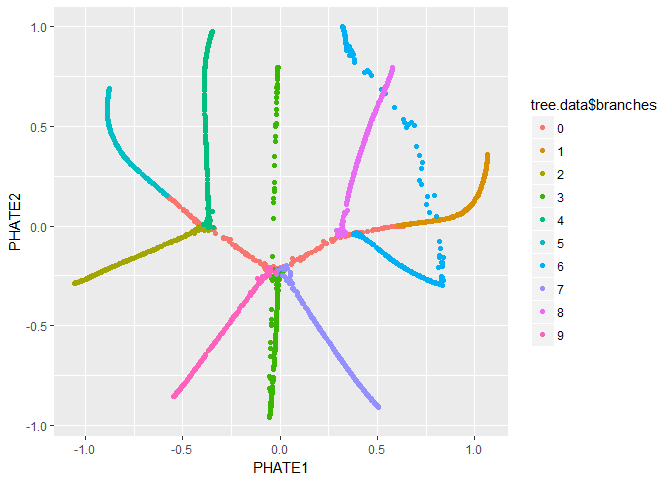
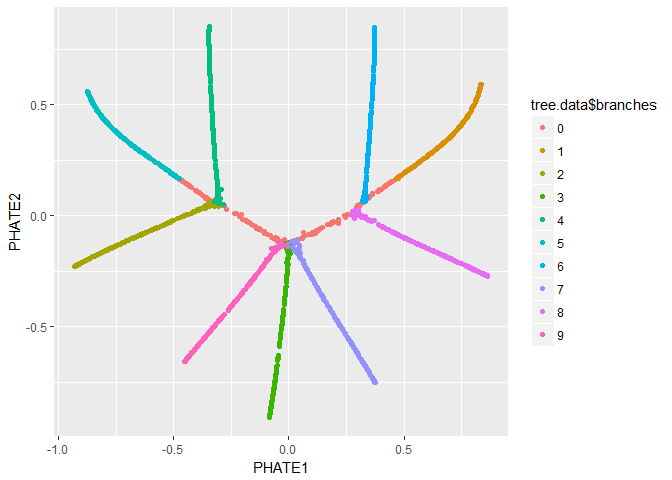
make CRAN checks pass

diff --git a/README.md b/README.md
@@ -1,37 +1,71 @@
+phater v0.2.5
+================
 
 <!-- README.md is generated from README.Rmd. Please edit that file -->
-phater
-======
 
-This R package provides an implementation of the [PHATE dimensionality reduction and visualization method](https://www.biorxiv.org/content/early/2017/12/01/120378).
+This R package provides an implementation of the [PHATE dimensionality
+reduction and visualization
+method](https://www.biorxiv.org/content/early/2017/12/01/120378).
 
-For a thorough overview of the PHATE visualization method, please see the [bioRxiv preprint](https://www.biorxiv.org/content/early/2017/12/01/120378)
+For a thorough overview of the PHATE visualization method, please see
+the [bioRxiv
+preprint](https://www.biorxiv.org/content/early/2017/12/01/120378)
 
-For our Python and Matlab implementations, please see [KrishnaswamyLab/PHATE](https://github.com/KrishnaswamyLab/PHATE).
+For our Python and Matlab implementations, please see
+[KrishnaswamyLab/PHATE](https://github.com/KrishnaswamyLab/PHATE).
 
-Installation
-------------
+## Installation
 
-#### Installation with `devtools`
+In order to use PHATE in R, you must also install the Python package.
 
-The R version of PHATE can be installed directly from R with `devtools`:
+#### Installation from CRAN and PyPi
+
+Install `phater` from CRAN by running the following code in R:
+
+``` r
+install.packages("phater")
+```
+
+Install `phate` in Python by running the following code from a terminal:
+
+``` bash
+pip install --user phate
+```
+
+#### Installation with `devtools` and `reticulate`
+
+The development version of PHATE can be installed directly from R with
+`devtools`:
 
 ``` r
 if (!suppressWarnings(require(devtools))) install.packages("devtools")
 devtools::install_github("KrishnaswamyLab/phater")
 ```
 
+If you have the development version of `reticulate`, you can also
+install `phate` in Python by running the following code in R:
+
+``` r
+devtools::install_github("rstudio/reticulate")
+reticulate::py_install("phate")
+```
+
 #### Installation from source
 
-1.  The R version of PHATE can be accessed [here](https://github.com/KrishnaswamyLab/phater), or by running the following in a terminal:
+The latest source version of PHATE can be accessed by running the
+following in a terminal:
 
 ``` bash
 git clone --recursive git://github.com/SmitaKrishnaswamy/PHATE.git
 cd PHATE/phater
 R CMD INSTALL
+cd ../Python
+python setup.py install --user
 ```
 
-1.  If the `phater` folder is empty, you have may forgotten to use the `--recursive` option for `git clone`. You can rectify this by running the following in a terminal:
+If the `phater` folder is empty, you have may forgotten to use the
+`--recursive` option for `git clone`. You can rectify this by
+running the following in a terminal:
 
 ``` bash
 cd PHATE
@@ -39,23 +73,26 @@ git submodule init
 git submodule update
 cd phater
 R CMD INSTALL
+cd ../Python
+python setup.py install --user
 ```
 
-Tutorial
---------
+## Tutorial
 
-This is a basic example running `phate` on a highly branched example dataset that is included with the package. First, let's examine it with PCA.
+This is a basic example running `phate` on a highly branched example
+dataset that is included with the package. First, let’s examine it with
+PCA.
 
 ``` r
 library(phater)
-#> Loading required package: ggplot2
 data(tree.data)
 plot(prcomp(tree.data$data)$x, col=tree.data$branches)
 ```
 
 <img src="man/figures/README-example-data-1.png" width="100%" />
 
-Now we run PHATE on the data. We'll just go ahead and try with the default parameters.
+Now we run PHATE on the data. We’ll just go ahead and try with the
+default parameters.
 
 ``` r
 # runs phate
@@ -67,7 +104,7 @@ summary(tree.phate)
 #> Embedding: (3000, 2)
 ```
 
-Let's plot the results.
+Let’s plot the results.
 
 ``` r
 # plot embedding
@@ -77,11 +114,19 @@ plot(tree.phate, col = tree.data$branches)
 
 <img src="man/figures/README-plot-results-1.png" width="100%" />
 
-Good news! Our branches look nice. However, all of the interesting activity seems to be concentrated into one region of the plot - in this case we should try the square root potential instead. We can also try increasing `t` to make the structure a little clearer - in this case, because synthetic data in unusually structured, we can use a very large value, like 120, but in biological data the automatic `t` selection is generally very close to ideal. Note here that if we pass our previous result in with the argument `init`, we won't have to recompute the diffusion operator.
+Good news\! Our branches separate nicely. However, most of the
+interesting activity seems to be concentrated into one region of the
+plot - in this case we should try the square root potential instead. We
+can also try increasing `t` to make the structure a little clearer - in
+this case, because synthetic data in unusually structured, we can use a
+very large value, like 200, but in biological data the automatic `t`
+selection is generally very close to ideal. Note here that if we pass
+our previous result in with the argument `init`, we won’t have to
+recompute the diffusion operator.
 
 ``` r
 # runs phate with different parameters
-tree.phate <- phate(tree.data$data, potential.method='sqrt', t=90, init=tree.phate)
+tree.phate <- phate(tree.data$data, potential.method='sqrt', t=200, init=tree.phate)
 # plot embedding
 palette(rainbow(10))
 plot(tree.phate, col = tree.data$branches)
@@ -89,17 +134,19 @@ plot(tree.phate, col = tree.data$branches)
 
 <img src="man/figures/README-adjust-parameters-1.png" width="100%" />
 
-We can also pass the PHATE object directly to `ggplot`, if it is installed.
+We can also pass the PHATE object directly to `ggplot`, if it is
+installed.
 
 ``` r
 library(ggplot2)
+#> Warning: package 'ggplot2' was built under R version 3.4.4
 ggplot(tree.phate, aes(x=PHATE1, y=PHATE2, color=tree.data$branches)) +
   geom_point()
 ```
 
 <img src="man/figures/README-ggplot-1.png" width="100%" />
 
-Issues
-------
+## Issues
 
-Please let us know of any issues at the [GitHub repo](https://github.com/KrishnaswamyLab/phater/issues)
+Please let us know of any issues at the [GitHub
+repo](https://github.com/KrishnaswamyLab/phater/issues)
